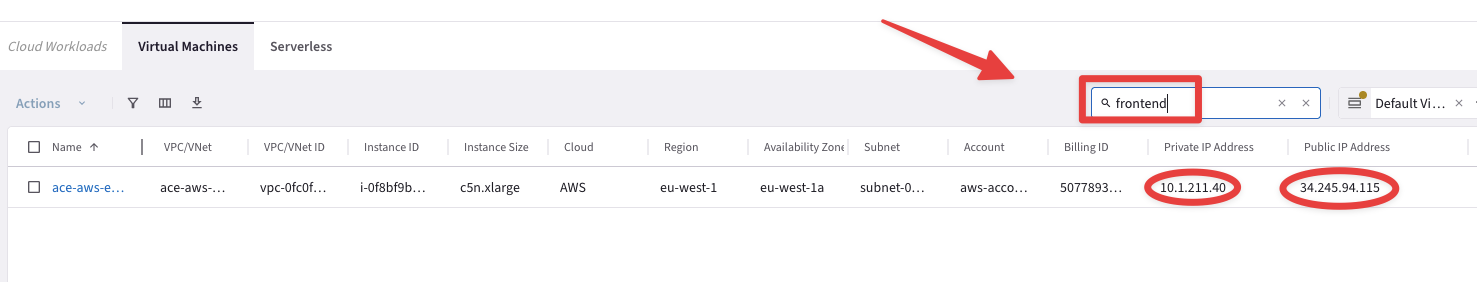
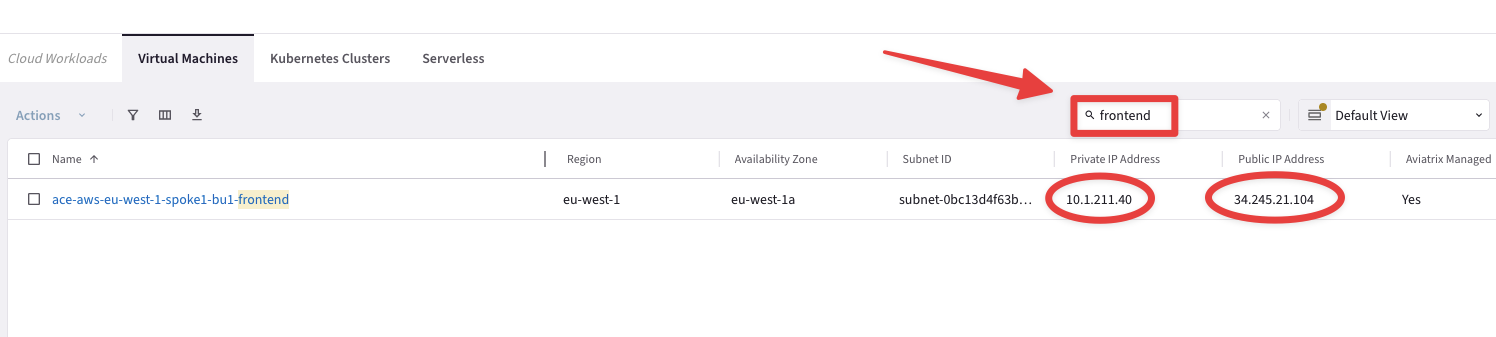
Merge pull request #1697 from AviatrixSystems/new_branch13105
New branch13105

Pull request: New branch13105

diff --git a/docs/ace-ops/docs/lab1.html b/docs/ace-ops/docs/lab1.html
@@ -666,7 +666,7 @@ expand the <strong><em>ace-aws-eu-west-1-spoke1</em></strong> VPC icon, click th
 <p><span class="caption-number">Fig. 24 </span><span class="caption-text">Diagnostic Tools</span><a class="headerlink" href="#id23" title="Link to this image">#</a></p>
 </figcaption>
 </figure>
-<p>Diagnostic Tools can also be launched directly from the Topology. Please select an Aviatrix Gateway (<ins>identified by the gateway icon with four arrows</ins>). After selecting the gateway, click the <strong>wrench icon</strong> on the right-hand side to initiate the Diagnostic Tools.</p>
+<p>Diagnostic Tools can also be launched directly from the <strong>Topology</strong>. Please select an Aviatrix Gateway (<ins>identified by the gateway icon with four arrows</ins>). After selecting the gateway, click the <strong>wrench icon</strong> on the right-hand side to initiate the <strong>Diagnostic Tools</strong>.</p>
 <figure class="align-center" id="id24">
 <a class="reference internal image-reference" href="../_images/lab1-diagnosticstools90.png"><img alt="../_images/lab1-diagnosticstools90.png" src="../_images/lab1-diagnosticstools90.png" style="height: 400px;" />
 </a>
@@ -693,7 +693,7 @@ expand the <strong><em>ace-aws-eu-west-1-spoke1</em></strong> VPC icon, click th
 <section id="personal-ssh-client">
 <h3>6.1 Personal SSH client<a class="headerlink" href="#personal-ssh-client" title="Link to this heading">#</a></h3>
 <ul class="simple">
-<li><p>Open your <span style='color:orange'><strong>SSH</strong></span> client and connect to the public IPs of the instances you need. You’ll find the credentials in the POD Portal.</p></li>
+<li><p>Open your <span style='color:orange'><strong>SSH</strong></span> client and connect to the <em>public IPs</em> of the instances you need. You’ll find the credentials in the POD Portal.</p></li>
 </ul>
 <figure class="align-center" id="id26">
 <img alt="../_images/lab1-publicip.png" src="../_images/lab1-publicip.png" />

diff --git a/docs/ace-pro/docs/pod.html b/docs/ace-pro/docs/pod.html
@@ -364,7 +364,7 @@ document.write(`
 <h2>Link<a class="headerlink" href="#link" title="Link to this heading">#</a></h2>
 <p>Click on the image below to access your personal POD portal.</p>
 <ul class="simple">
-<li><p><strong>Access Code</strong>: <span style='color:#479608'>MR2Z</span></p></li>
+<li><p><strong>Access Code</strong>: <span style='color:#479608'>CGYA</span></p></li>
 </ul>
 <a href="https://portal.ace.aviatrixlab.com/ " target="_blank">
 <p><img alt="My image" src="../_images/pod.png" />

diff --git a/ace_ops/docs/lab1.md b/ace_ops/docs/lab1.md
@@ -301,7 +301,7 @@ align: center
 Diagnostic Tools
 ```
 
-Diagnostic Tools can also be launched directly from the Topology. Please select an Aviatrix Gateway (<ins>identified by the gateway icon with four arrows</ins>). After selecting the gateway, click the **wrench icon** on the right-hand side to initiate the Diagnostic Tools.
+Diagnostic Tools can also be launched directly from the **Topology**. Please select an Aviatrix Gateway (<ins>identified by the gateway icon with four arrows</ins>). After selecting the gateway, click the **wrench icon** on the right-hand side to initiate the **Diagnostic Tools**.
 
 ```{figure} images/lab1-diagnosticstools90.png
 ---
@@ -331,7 +331,7 @@ For corporate laptops, port 22 is typically blocked; therefore, <ins>please skip
 
 ### 6.1 Personal SSH client
 
-- Open your <span style='color:orange'>**SSH**</span> client and connect to the public IPs of the instances you need. You’ll find the credentials in the POD Portal.
+- Open your <span style='color:orange'>**SSH**</span> client and connect to the _public IPs_ of the instances you need. You’ll find the credentials in the POD Portal.
 
 ```{figure} images/lab1-publicip.png
 ---

diff --git a/docs/ace-ops/_sources/docs/lab1.md b/docs/ace-ops/_sources/docs/lab1.md
@@ -301,7 +301,7 @@ align: center
 Diagnostic Tools
 ```
 
-Diagnostic Tools can also be launched directly from the Topology. Please select an Aviatrix Gateway (<ins>identified by the gateway icon with four arrows</ins>). After selecting the gateway, click the **wrench icon** on the right-hand side to initiate the Diagnostic Tools.
+Diagnostic Tools can also be launched directly from the **Topology**. Please select an Aviatrix Gateway (<ins>identified by the gateway icon with four arrows</ins>). After selecting the gateway, click the **wrench icon** on the right-hand side to initiate the **Diagnostic Tools**.
 
 ```{figure} images/lab1-diagnosticstools90.png
 ---
@@ -331,7 +331,7 @@ For corporate laptops, port 22 is typically blocked; therefore, <ins>please skip
 
 ### 6.1 Personal SSH client
 
-- Open your <span style='color:orange'>**SSH**</span> client and connect to the public IPs of the instances you need. You’ll find the credentials in the POD Portal.
+- Open your <span style='color:orange'>**SSH**</span> client and connect to the _public IPs_ of the instances you need. You’ll find the credentials in the POD Portal.
 
 ```{figure} images/lab1-publicip.png
 ---

diff --git a/ace_pro/docs/pod.md b/ace_pro/docs/pod.md
@@ -3,7 +3,7 @@
 ## Link
 Click on the image below to access your personal POD portal.
 
-- **Access Code**: <span style='color:#479608'>MR2Z</span>
+- **Access Code**: <span style='color:#479608'>CGYA</span>
 
 <a href="https://portal.ace.aviatrixlab.com/ " target="_blank">
 

diff --git a/docs/ace-pro/_sources/docs/pod.md b/docs/ace-pro/_sources/docs/pod.md
@@ -3,7 +3,7 @@
 ## Link
 Click on the image below to access your personal POD portal.
 
-- **Access Code**: <span style='color:#479608'>MR2Z</span>
+- **Access Code**: <span style='color:#479608'>CGYA</span>
 
 <a href="https://portal.ace.aviatrixlab.com/ " target="_blank">
 